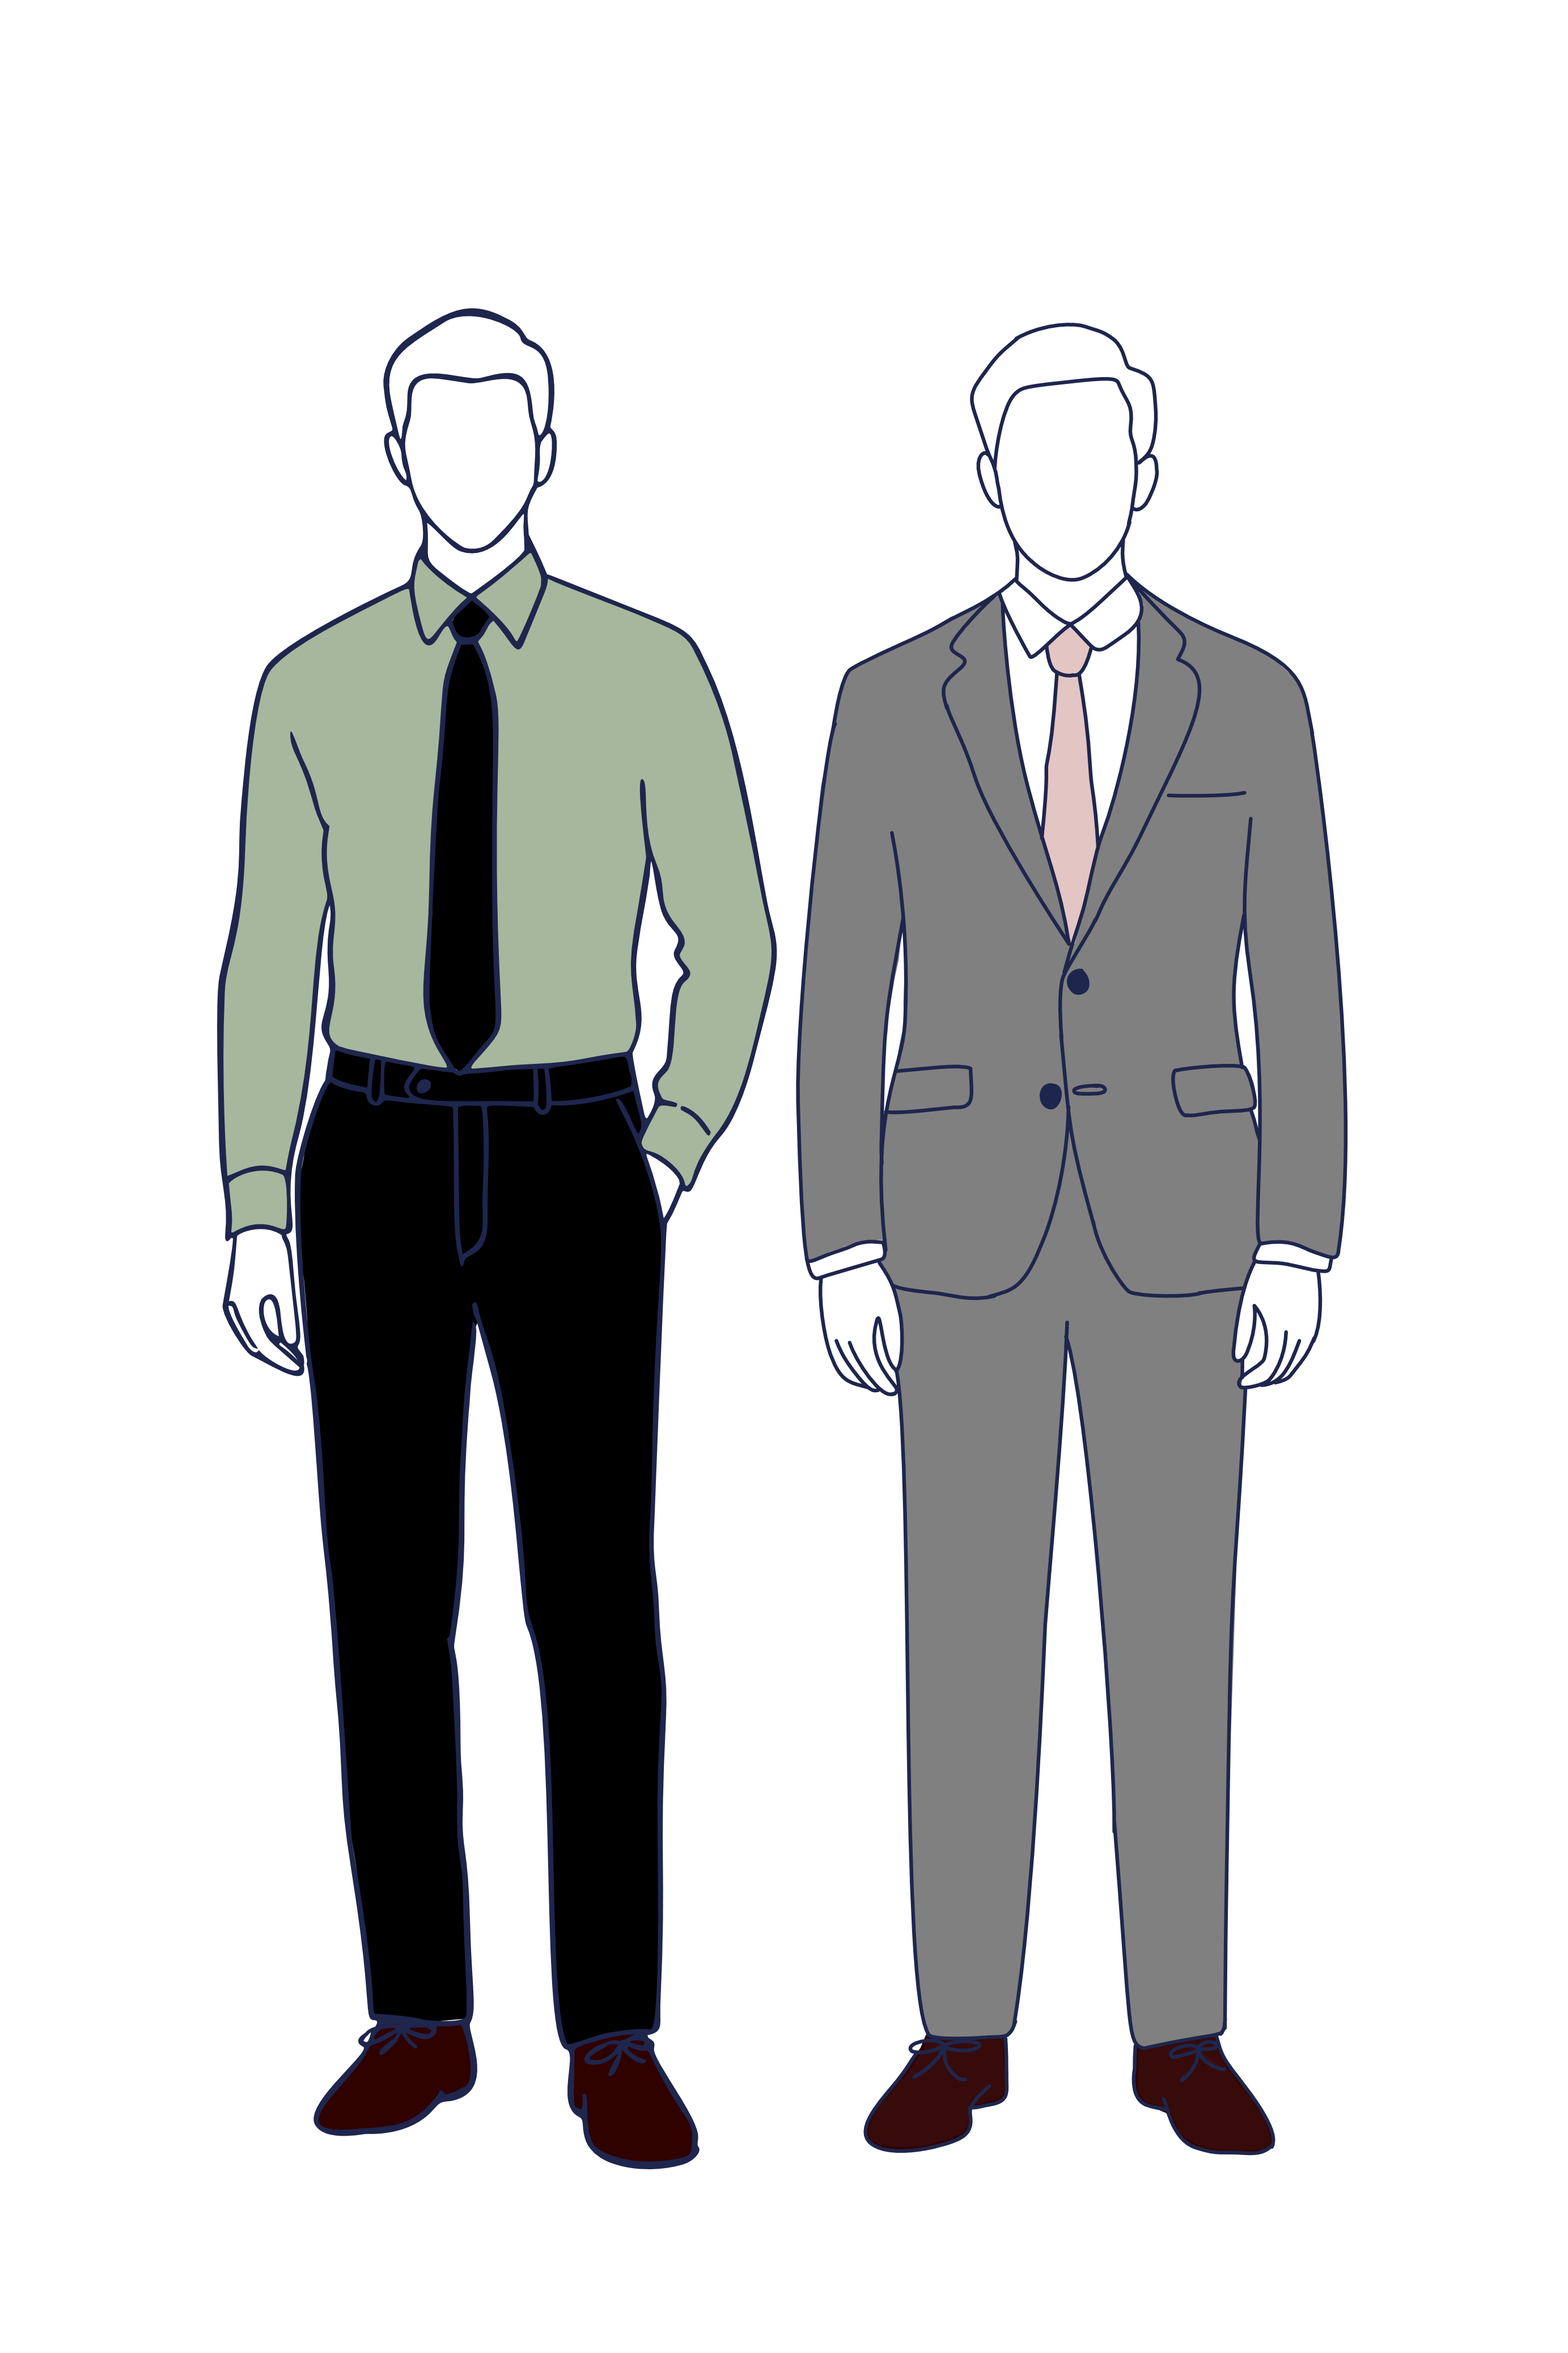
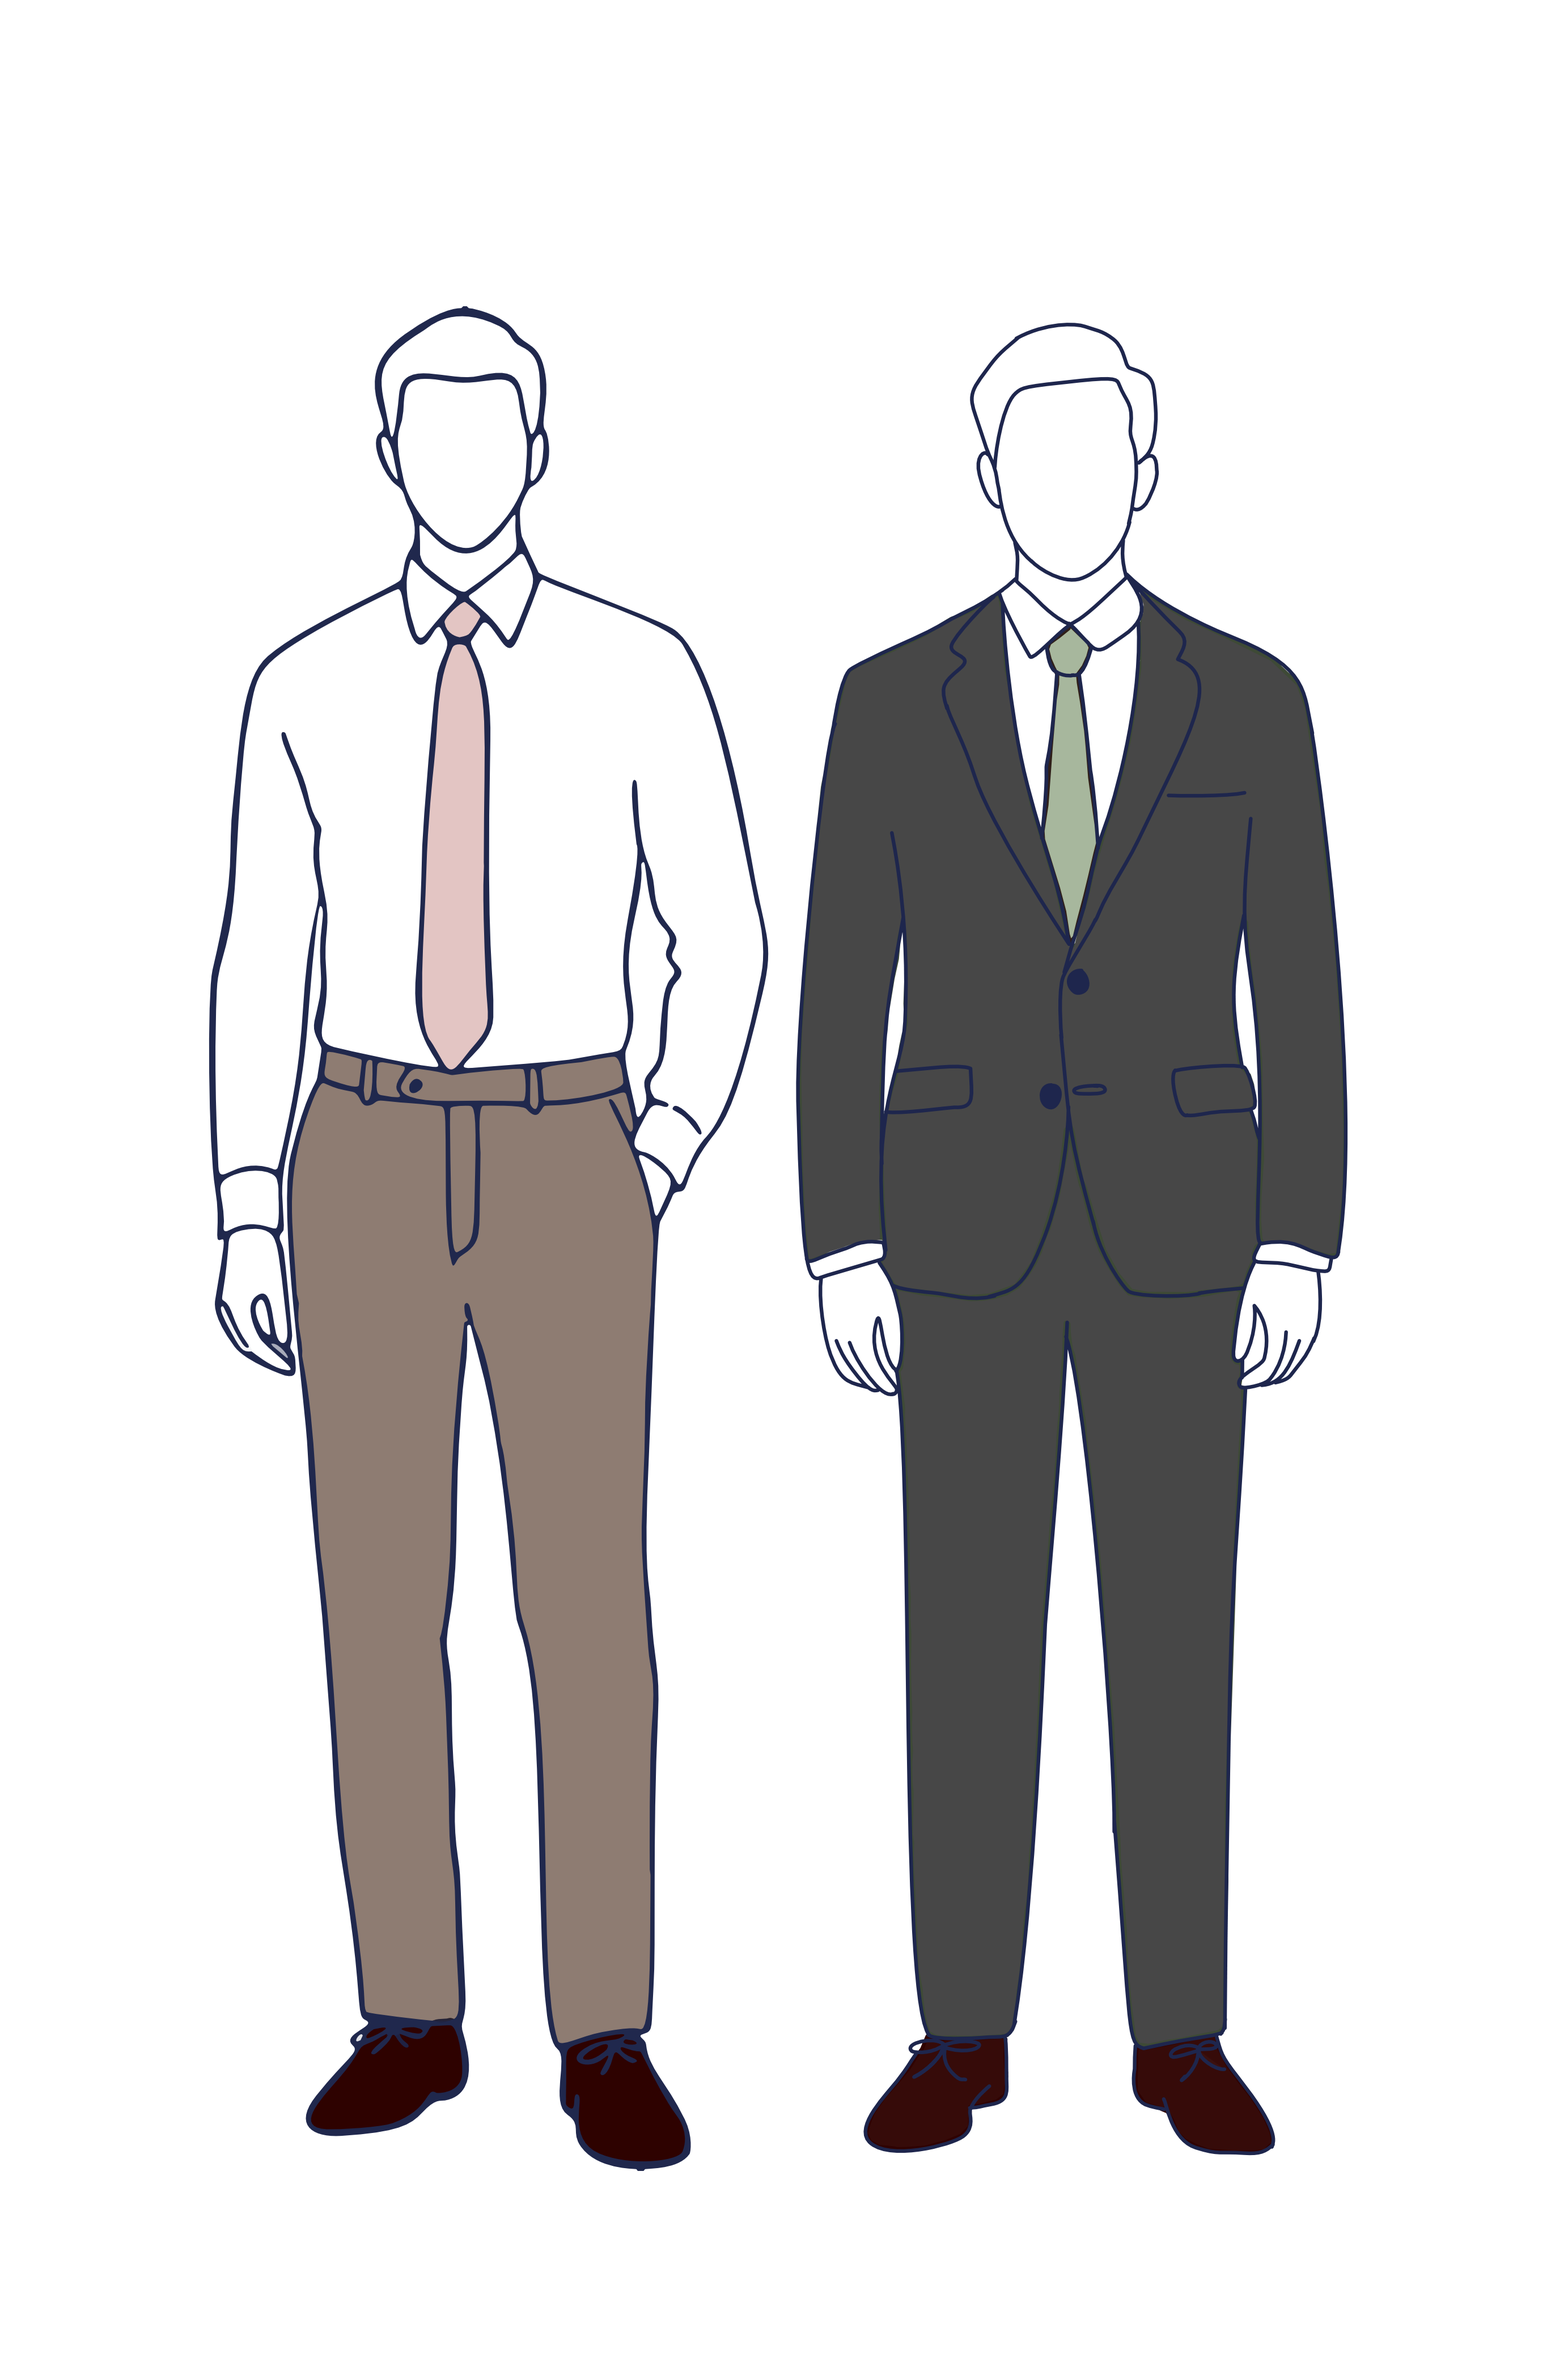
upd

Changed region(s): [[0.1244, 0.1244, 0.8706, 0.9328], [0.4353, 0.9017, 0.4664, 0.9328]]

diff --git a/src/components/DressCode.tsx b/src/components/DressCode.tsx
@@ -51,7 +51,7 @@ const groups: {
     title: "Guests - Friends & Families",
     swatchRows: [[{ color: "#7b956d" }, { color: "#a6b59d" }, { color: "#e2c5c3" }]],
     note: "We invite our guests to wear either of these lovely shades of green and blush pink.",
-    images: [{ label: "Men", src: "/images/M Guest.png" }, { label: "Women", src: "/images/W Guest.png" }],
+    images: [{ label: "Men", src: "/images/M Guests.png }, { label: "Women", src: "/images/W Guest.png" }],
   },
 ];
 
